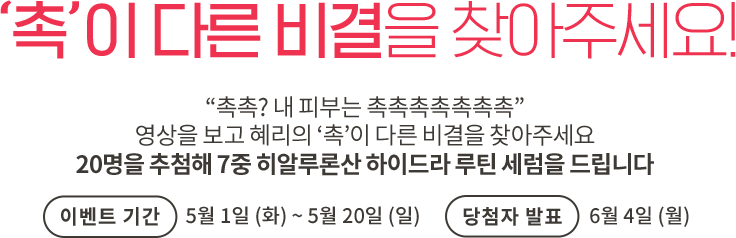
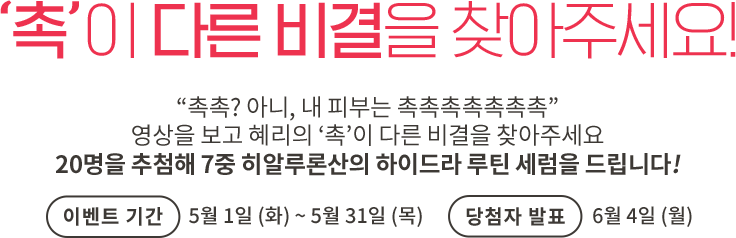
캠페인 기간 텍스트 변경

diff --git a/m/css/style.css b/m/css/style.css
@@ -181,7 +181,7 @@
 
 .event-fill .text {
 	/*width: 83.86%;*/
-	width: 84.4%;
+	width: 84%;
 	margin: 0 auto 13px;
 }
 
